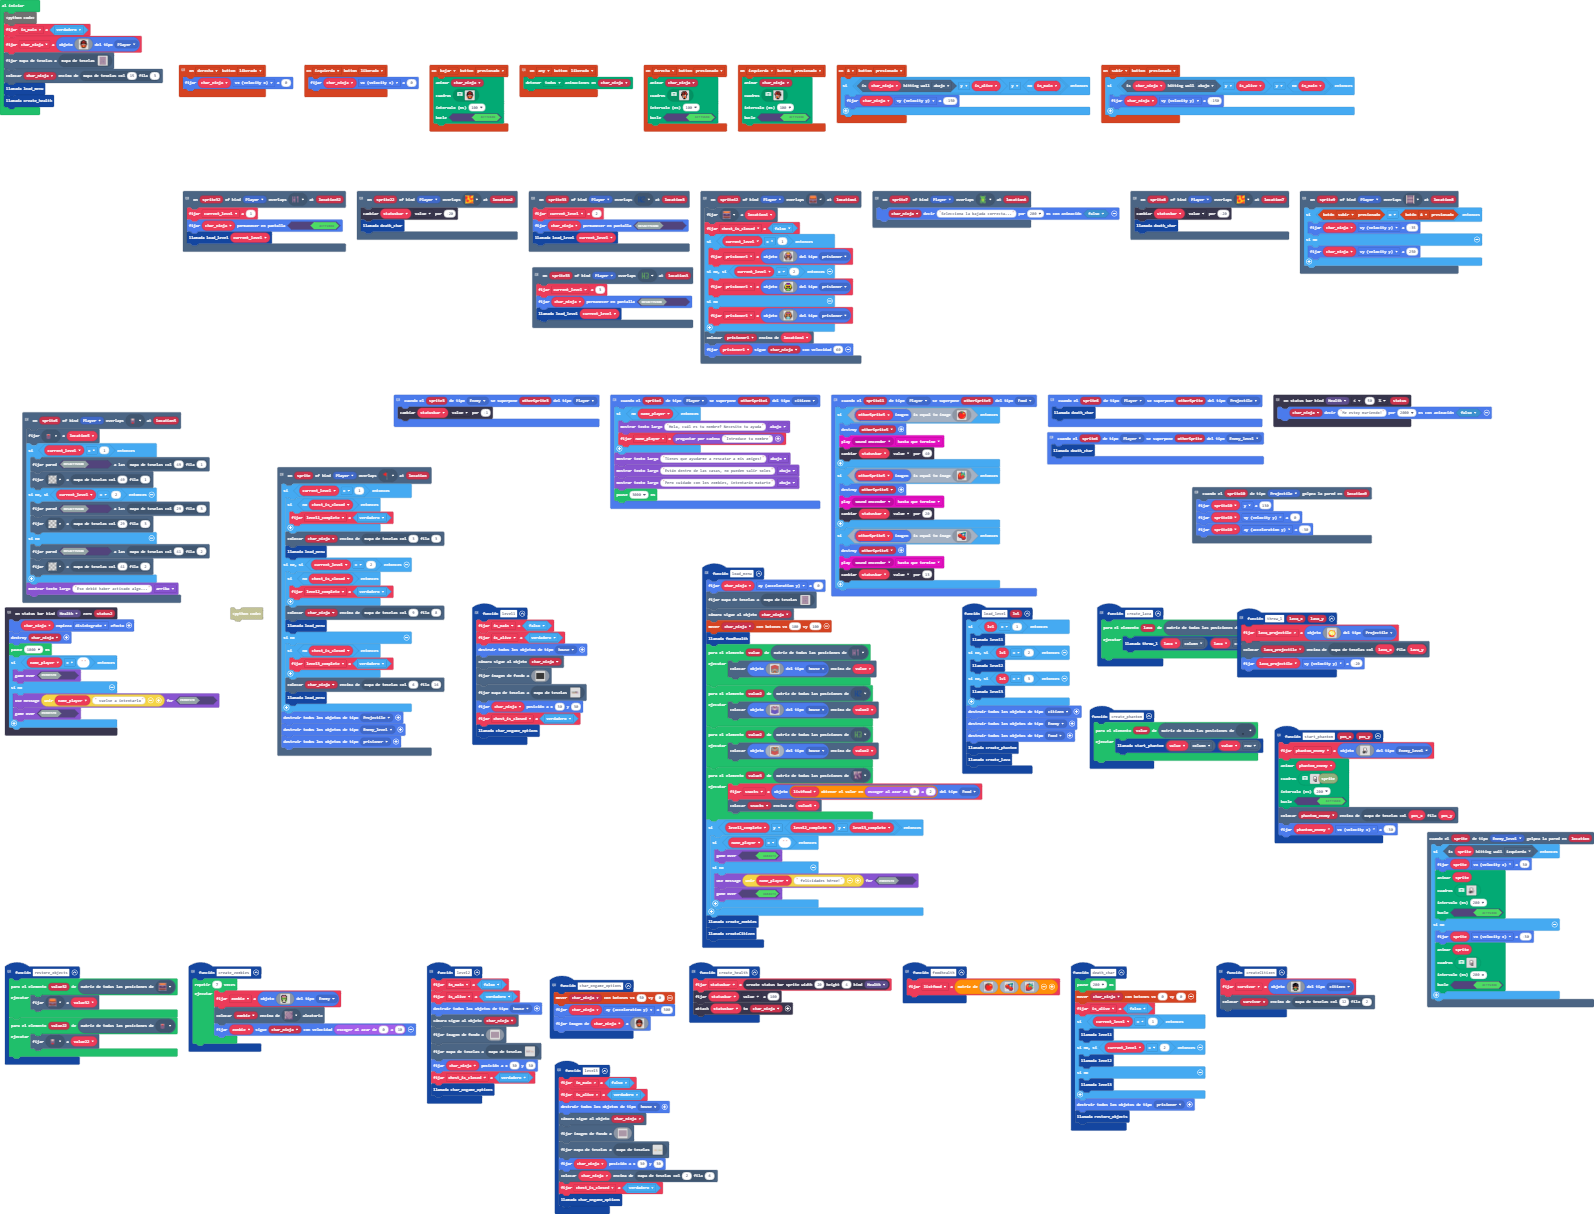
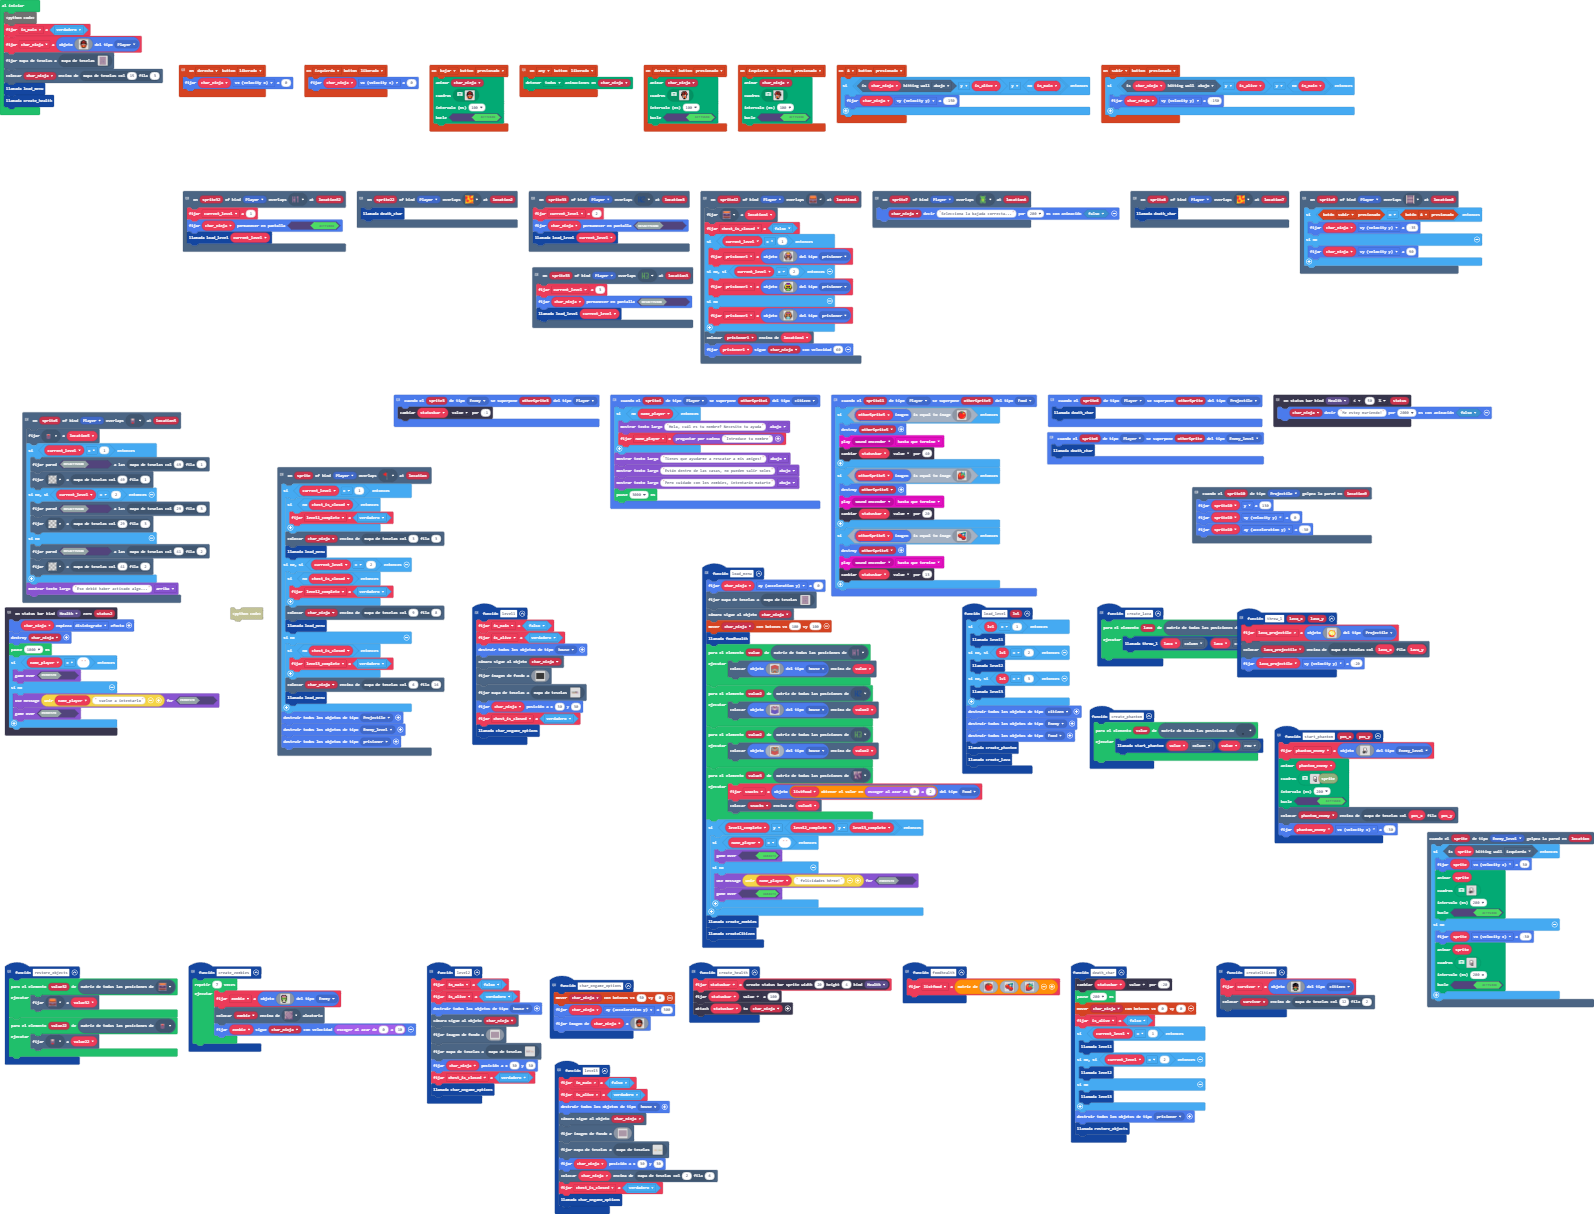
ghost-attack

Changed region(s): [[0.6763, 0.7924, 0.7685, 0.9448], [0.707, 0.1524, 0.83, 0.2133], [0.2152, 0.1524, 0.3381, 0.2133]]

diff --git a/main.ts b/main.ts
@@ -19,6 +19,7 @@ controller.left.onEvent(ControllerButtonEvent.Released, function () {
     char_ninja.vx = 0
 })
 function death_char () {
+    statusbar.value += -20
     pause(200)
     controller.moveSprite(char_ninja, 0, 0)
     is_alive = false
@@ -173,7 +174,7 @@ scene.onOverlapTile(SpriteKind.Player, assets.tile`ladder`, function (sprite9, l
     if (controller.up.isPressed() || controller.A.isPressed()) {
         char_ninja.vy = -35
     } else {
-        char_ninja.vy = 250
+        char_ninja.vy = 90
     }
 })
 // LISTA DE FRUTAS
@@ -559,7 +560,6 @@ function create_zombies () {
 }
 // LLAMA A LA FUNCION DEATH_CHAR AL TOCAR LA LAVA Y PIERDE VIDA
 scene.onOverlapTile(SpriteKind.Player, sprites.dungeon.hazardLava1, function (sprite8, location7) {
-    statusbar.value += -20
     death_char()
 })
 controller.A.onEvent(ControllerButtonEvent.Pressed, function () {
@@ -918,7 +918,6 @@ function start_phantom (pos_x: number, pos_y: number) {
 }
 // RESTA VIDA AL PERSONAJE AL HACER CONTACTO CON LAVA
 scene.onOverlapTile(SpriteKind.Player, assets.tile`lava_enemy`, function (sprite22, location2) {
-    statusbar.value += -20
     death_char()
 })
 let phantom_enemy: Sprite = null
